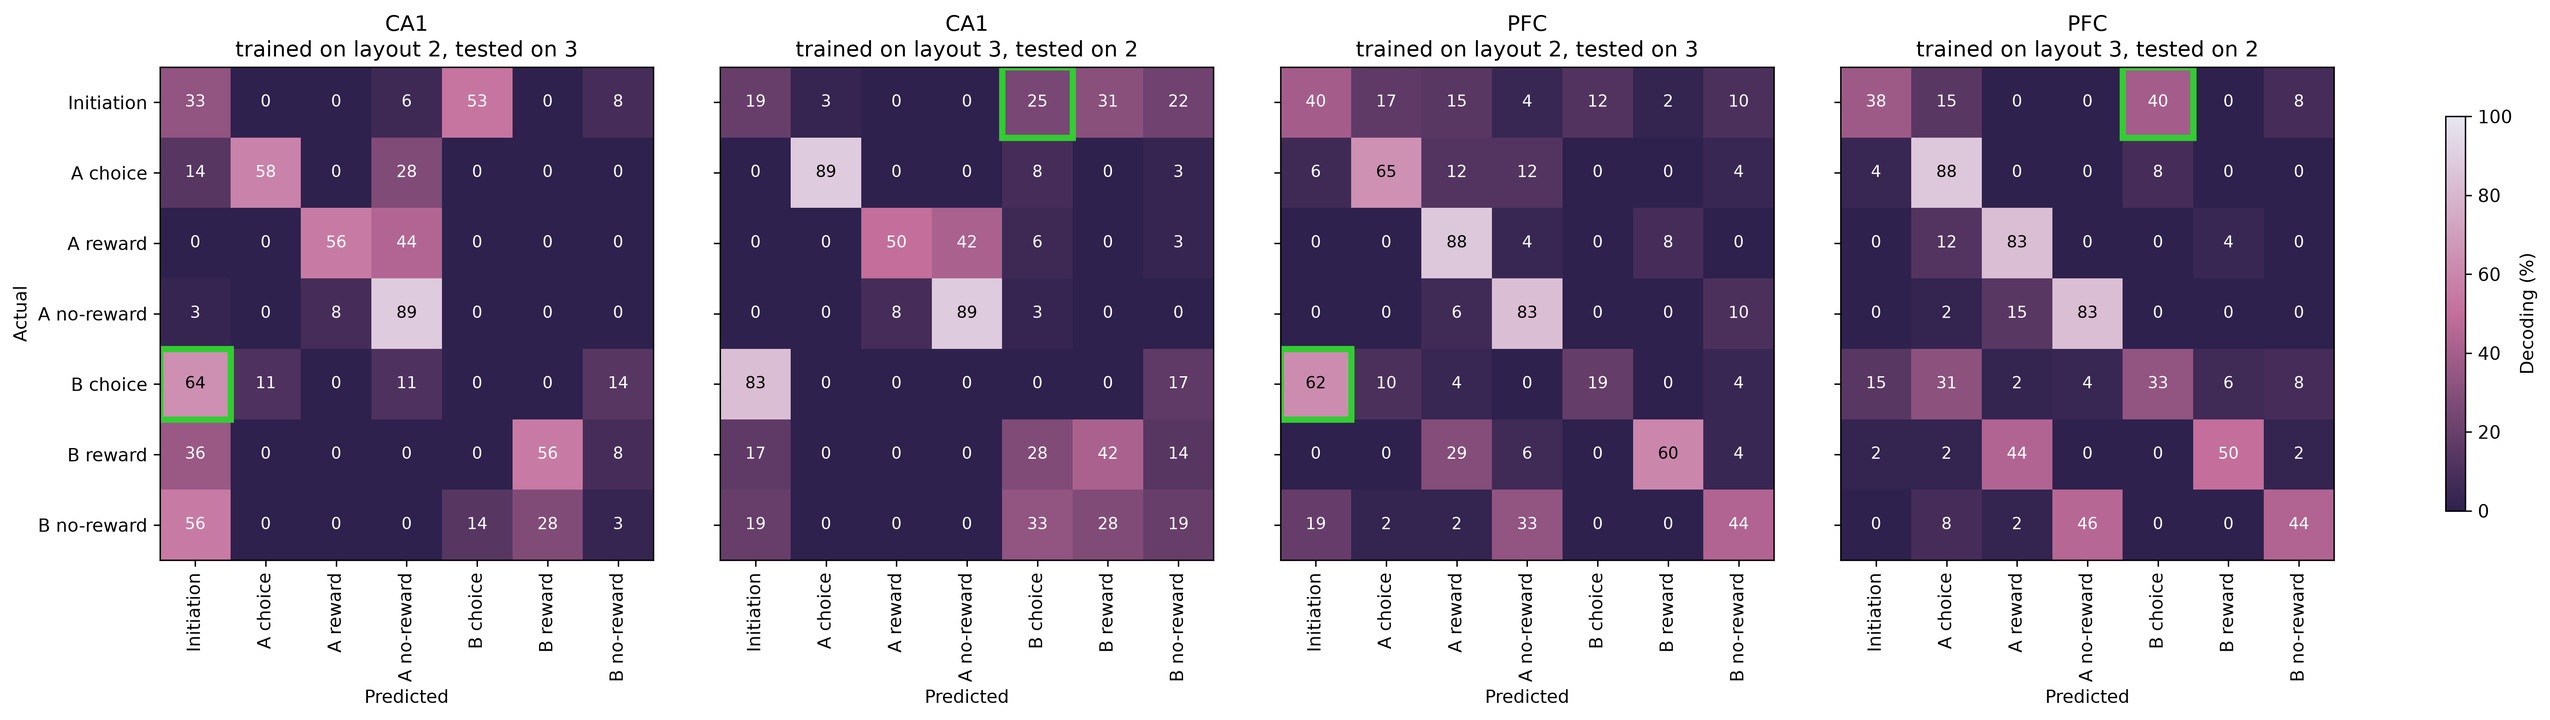
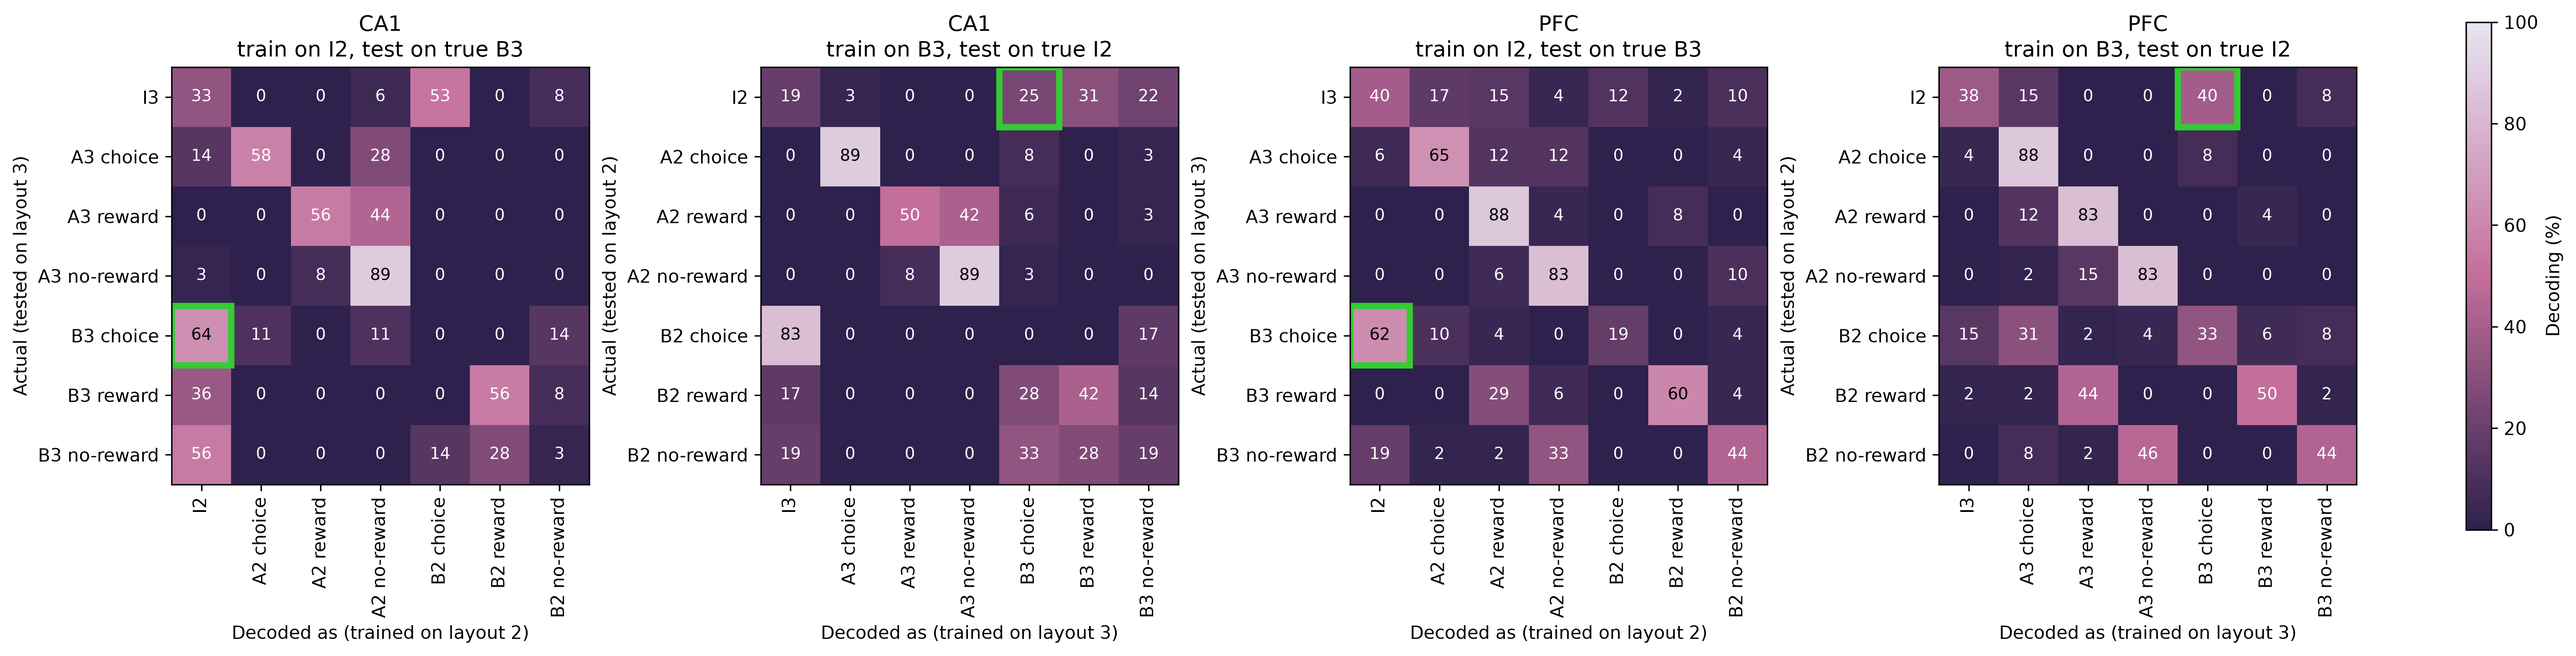
Label every state with its layout in the 2/3 confusion matrices

diff --git a/functions/functions_cells_decode.py b/functions/functions_cells_decode.py
@@ -187,20 +187,22 @@ def plot_port_pair(hp1, hp2, pfc1, pfc2):
     """
     cmap = palettable.scientific.sequential.Acton_3.mpl_colormap
     fig, axs = plt.subplots(1, 4, figsize=(20, 5.5), constrained_layout=True)
-    panels = [(title, m[2].mean(0), cell) for region, m1, m2 in (('CA1', hp1, hp2), ('PFC', pfc1, pfc2))
-              for title, m, cell in ((region + '\ntrained on layout 2, tested on 3', m1, PORT_CELLS_SAME_PORT[0]),
-                                     (region + '\ntrained on layout 3, tested on 2', m2, PORT_CELLS_SAME_PORT[1]))]
-    for k, (ax, (title, conf, (row, col))) in enumerate(zip(axs, panels)):
+    # every state is labelled with its layout: rows are the tested layout, columns the training layout
+    names = ['I%d', 'A%d choice', 'A%d reward', 'A%d no-reward', 'B%d choice', 'B%d reward', 'B%d no-reward']
+    panels = [(region + '\ntrain on %s, test on true %s' % (('I2', 'B3') if train == 2 else ('B3', 'I2')), m[2].mean(0), cell, train, test)
+              for region, m1, m2 in (('CA1', hp1, hp2), ('PFC', pfc1, pfc2))
+              for m, cell, train, test in ((m1, PORT_CELLS_SAME_PORT[0], 2, 3), (m2, PORT_CELLS_SAME_PORT[1], 3, 2))]
+    for ax, (title, conf, (row, col), train, test) in zip(axs, panels):
         img = ax.imshow(conf, cmap=cmap, vmin=0, vmax=100)
         for i in range(7):
             for j in range(7):
                 ax.text(j, i, '%.0f' % conf[i, j], ha='center', va='center', fontsize=9,
                         color='black' if conf[i, j] > 60 else 'white')
         ax.add_patch(plt.Rectangle((col - 0.5, row - 0.5), 1, 1, fill=False, edgecolor='limegreen', linewidth=3.5))
-        ax.set_title(title); ax.set_xlabel('Predicted')
-        ax.set_xticks(range(7)); ax.set_xticklabels(STATES, rotation='vertical')
-        ax.set_yticks(range(7)); ax.set_yticklabels(STATES if k == 0 else [])
-    axs[0].set_ylabel('Actual')
+        ax.set_title(title)
+        ax.set_xlabel('Decoded as (trained on layout %d)' % train); ax.set_ylabel('Actual (tested on layout %d)' % test)
+        ax.set_xticks(range(7)); ax.set_xticklabels([n % train for n in names], rotation='vertical')
+        ax.set_yticks(range(7)); ax.set_yticklabels([n % test for n in names])
     fig.colorbar(img, ax=axs, label='Decoding (%)', shrink=0.8)
     return fig
 
